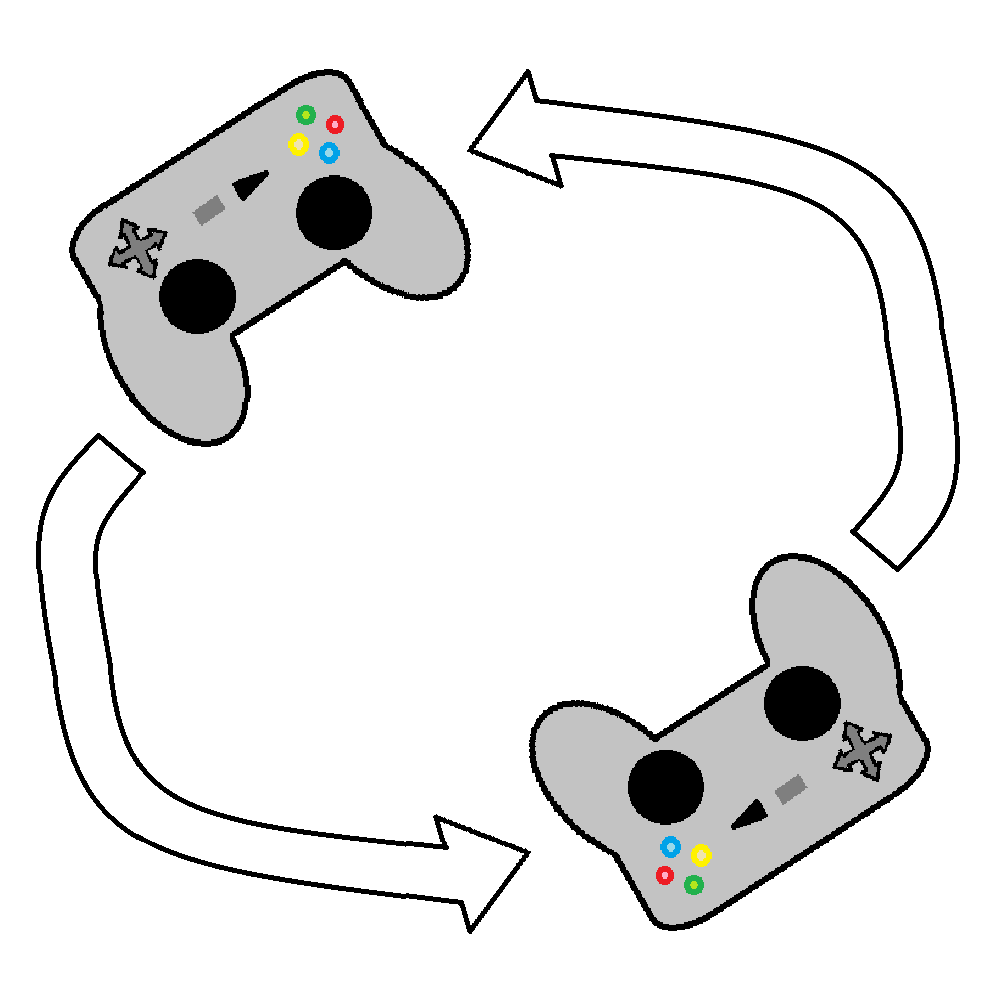
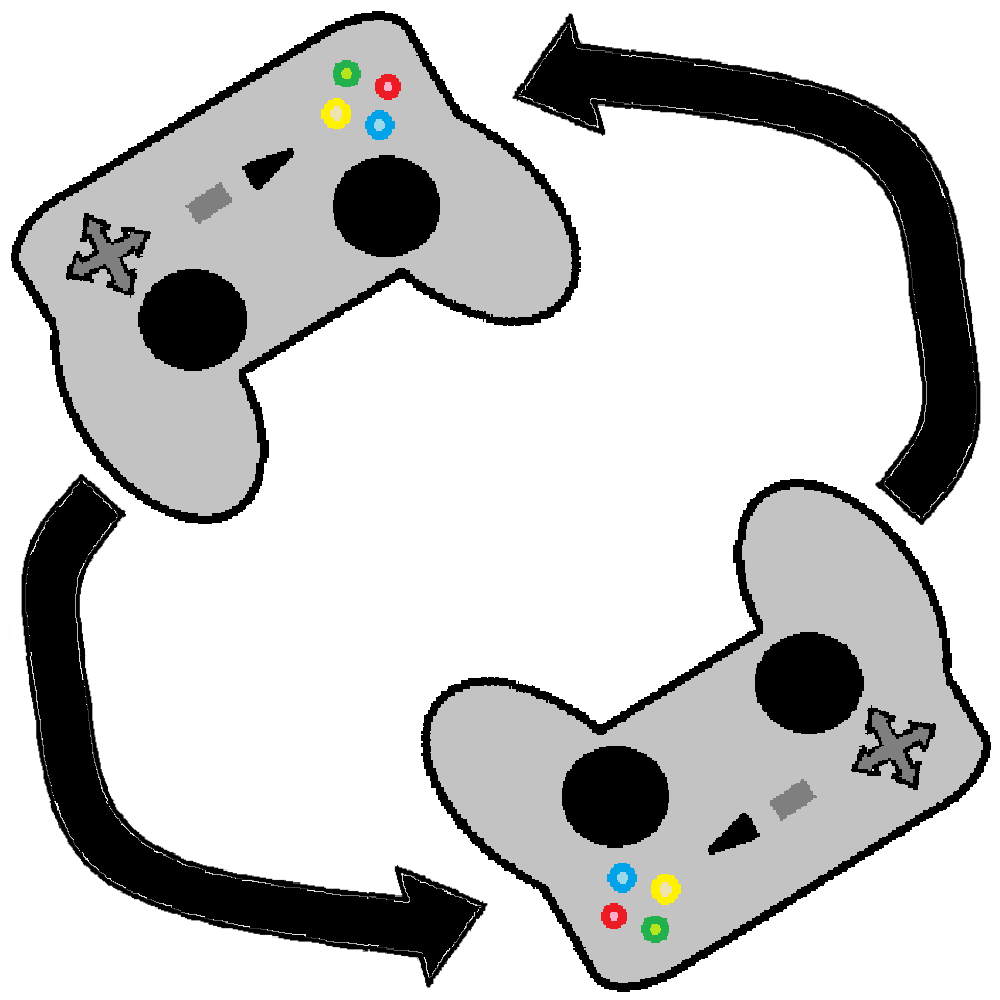
Refactor path handling and improve code readability in gui_app.py

diff --git a/gui_app.py b/gui_app.py
@@ -220,7 +220,9 @@ class RcloneSync:
                 str(local_path)
                 .replace("%USERPROFILE%", str(Path.home()))
                 .replace("%APPDATA%", str(Path.home() / "AppData" / "Roaming"))
-            ).expanduser().resolve()
+            )
+            .expanduser()
+            .resolve()
         )
         remote = f"{self.provider}:{cloud_folder.lstrip('/')}"
         if on_line:
@@ -250,7 +252,9 @@ class RcloneSync:
                 str(local_path)
                 .replace("%USERPROFILE%", str(Path.home()))
                 .replace("%APPDATA%", str(Path.home() / "AppData" / "Roaming"))
-            ).expanduser().resolve()
+            )
+            .expanduser()
+            .resolve()
         )
         remote = f"{self.provider}:{cloud_folder.lstrip('/')}"
         Path(local_path).mkdir(parents=True, exist_ok=True)
@@ -740,11 +744,15 @@ class LocalNetworkSync:
             if on_line:
                 on_line(msg)
 
-        lp = Path(
-            str(local_path)
-            .replace("%USERPROFILE%", str(Path.home()))
-            .replace("%APPDATA%", str(Path.home() / "AppData" / "Roaming"))
-        ).expanduser().resolve()
+        lp = (
+            Path(
+                str(local_path)
+                .replace("%USERPROFILE%", str(Path.home()))
+                .replace("%APPDATA%", str(Path.home() / "AppData" / "Roaming"))
+            )
+            .expanduser()
+            .resolve()
+        )
         _log(f"[push] local={lp}  remote={remote_path}")
         if not lp.exists():
             raise FileNotFoundError(
@@ -808,11 +816,15 @@ class LocalNetworkSync:
             if on_line:
                 on_line(msg)
 
-        lp = Path(
-            local_path
-            .replace("%USERPROFILE%", str(Path.home()))
-            .replace("%APPDATA%", str(Path.home() / "AppData" / "Roaming"))
-        ).expanduser().resolve()
+        lp = (
+            Path(
+                local_path.replace("%USERPROFILE%", str(Path.home())).replace(
+                    "%APPDATA%", str(Path.home() / "AppData" / "Roaming")
+                )
+            )
+            .expanduser()
+            .resolve()
+        )
         _log(f"[pull] remote={remote_path}  local={lp}")
         has_rsync = shutil.which("rsync") is not None
         if self.ssh_password or not has_rsync:
@@ -1096,9 +1108,16 @@ class SyncApp(QMainWindow):
                         current_mac = mac_part.replace("-", ":").lower()
                     elif "IPv4 Address" in ls:
                         # e.g. "IPv4 Address. . . . . . . . . . . : 192.168.1.5(Preferred)"
-                        ip_part = ls.split(":", 1)[-1].strip().replace("(Preferred)", "").strip()
+                        ip_part = (
+                            ls.split(":", 1)[-1]
+                            .strip()
+                            .replace("(Preferred)", "")
+                            .strip()
+                        )
                         if ip_part and ip_part not in local_ips:
-                            interfaces.append({"iface": "local", "ip": ip_part, "mac": current_mac})
+                            interfaces.append(
+                                {"iface": "local", "ip": ip_part, "mac": current_mac}
+                            )
                             local_ips.add(ip_part)
                             if current_mac:
                                 local_macs.add(current_mac)
@@ -1679,7 +1698,9 @@ class SyncApp(QMainWindow):
 
         content_layout.addSpacing(10)
         # add line spacer between
-        content_layout.addWidget(QFrame(frameShape=QFrame.Shape.HLine, styleSheet="color: #555;"), 1)
+        content_layout.addWidget(
+            QFrame(frameShape=QFrame.Shape.HLine, styleSheet="color: #555;"), 1
+        )
         content_layout.addSpacing(10)
 
         # ── Sync Button ───────────────────────────────────────────────────────
@@ -1736,7 +1757,9 @@ class SyncApp(QMainWindow):
             QSizePolicy(QSizePolicy.Policy.Expanding, QSizePolicy.Policy.Preferred)
         )
 
-        content_layout.addWidget(self.warning_label, alignment=Qt.AlignmentFlag.AlignCenter)
+        content_layout.addWidget(
+            self.warning_label, alignment=Qt.AlignmentFlag.AlignCenter
+        )
         self.warning_label.setVisible(False)  # only show when sync starts
 
         # ── Progress Bar ──────────────────────────────────────────────────────
@@ -1797,7 +1820,9 @@ class SyncApp(QMainWindow):
         # Inner scrollable widget so the panel never clips on small windows
         settings_scroll = QScrollArea()
         settings_scroll.setWidgetResizable(True)
-        settings_scroll.setHorizontalScrollBarPolicy(Qt.ScrollBarPolicy.ScrollBarAlwaysOff)
+        settings_scroll.setHorizontalScrollBarPolicy(
+            Qt.ScrollBarPolicy.ScrollBarAlwaysOff
+        )
         settings_scroll.setStyleSheet(
             "QScrollArea { background: #2a2a2a; border: none; }"
             "QWidget { background: transparent; }"
@@ -1845,11 +1870,13 @@ class SyncApp(QMainWindow):
 
         # ── Section: Raw JSON editor ──────────────────────────────────────────
         settings_vbox.addWidget(_section_header("🛠  Advanced: Raw Settings File"))
-        settings_vbox.addWidget(_hint(
-            "Power users: edit the raw JSON that is saved to disk.  "
-            "Be careful — invalid JSON will be rejected.  "
-            "Use 'Reload from disk' to discard any unsaved edits."
-        ))
+        settings_vbox.addWidget(
+            _hint(
+                "Power users: edit the raw JSON that is saved to disk.  "
+                "Be careful — invalid JSON will be rejected.  "
+                "Use 'Reload from disk' to discard any unsaved edits."
+            )
+        )
 
         self.settings_json_editor = QPlainTextEdit()
         self.settings_json_editor.setStyleSheet(
@@ -1893,9 +1920,7 @@ class SyncApp(QMainWindow):
         about_vbox.setSpacing(6)
 
         about_title = QLabel("Game Sync Tool")
-        about_title.setStyleSheet(
-            "font-size: 16px; font-weight: bold; color: white;"
-        )
+        about_title.setStyleSheet("font-size: 16px; font-weight: bold; color: white;")
         about_vbox.addWidget(about_title)
 
         about_desc = QLabel(
@@ -1948,9 +1973,7 @@ class SyncApp(QMainWindow):
         )
         donate_btn.setCursor(Qt.CursorShape.PointingHandCursor)
         donate_btn.clicked.connect(
-            lambda: webbrowser.open(
-                "https://www.paypal.com/ncp/payment/J4WYMPBFTLBMU"
-            )
+            lambda: webbrowser.open("https://www.paypal.com/ncp/payment/J4WYMPBFTLBMU")
         )
         about_links_row.addWidget(donate_btn)
         about_links_row.addStretch()
@@ -1972,8 +1995,6 @@ class SyncApp(QMainWindow):
 
         outer_layout.addWidget(splitter)
         self.setCentralWidget(outer_widget)
-
-
 
     # ── Cloud UI callbacks ────────────────────────────────────────────────────
 
@@ -2178,8 +2199,15 @@ class SyncApp(QMainWindow):
 
     def _start_direct_sync(self, operation: str):
         """Common launcher for push/pull between this machine and the destination."""
-        if getattr(self, "settings_confirm_sync_cb", None) and self.settings_confirm_sync_cb.isChecked():
-            op_label = "Push to destination" if operation == "push" else "Pull from destination"
+        if (
+            getattr(self, "settings_confirm_sync_cb", None)
+            and self.settings_confirm_sync_cb.isChecked()
+        ):
+            op_label = (
+                "Push to destination"
+                if operation == "push"
+                else "Pull from destination"
+            )
             reply = QMessageBox.question(
                 self,
                 "Confirm Sync",
@@ -2350,6 +2378,7 @@ class SyncApp(QMainWindow):
                 except Exception:
                     pass
                 import time as _time
+
                 _time.sleep(0.5)  # give the OS a moment to release the port
 
                 result = subprocess.run(
@@ -2372,7 +2401,9 @@ class SyncApp(QMainWindow):
                     )
                 else:
                     # Fallback: find any JSON object in the output
-                    m = _re.search(r'(\{[^{}]*"access_token"[^{}]*\})', output, _re.DOTALL)
+                    m = _re.search(
+                        r'(\{[^{}]*"access_token"[^{}]*\})', output, _re.DOTALL
+                    )
                     if m:
                         token_json = m.group(1).strip()
                     else:
@@ -2510,9 +2541,13 @@ class SyncApp(QMainWindow):
         return folder
 
     def push_to_cloud(self):
-        if getattr(self, "settings_confirm_sync_cb", None) and self.settings_confirm_sync_cb.isChecked():
+        if (
+            getattr(self, "settings_confirm_sync_cb", None)
+            and self.settings_confirm_sync_cb.isChecked()
+        ):
             reply = QMessageBox.question(
-                self, "Confirm Push",
+                self,
+                "Confirm Push",
                 "Are you sure you want to push saves to the cloud?\nThis will overwrite files in the cloud folder.",
                 QMessageBox.StandardButton.Yes | QMessageBox.StandardButton.No,
                 QMessageBox.StandardButton.No,
@@ -2532,9 +2567,13 @@ class SyncApp(QMainWindow):
         self._run_cloud_op("upload", cloud_syncs, local_path)
 
     def pull_from_cloud(self):
-        if getattr(self, "settings_confirm_sync_cb", None) and self.settings_confirm_sync_cb.isChecked():
+        if (
+            getattr(self, "settings_confirm_sync_cb", None)
+            and self.settings_confirm_sync_cb.isChecked()
+        ):
             reply = QMessageBox.question(
-                self, "Confirm Pull",
+                self,
+                "Confirm Pull",
                 "Are you sure you want to pull saves from the cloud?\nThis will overwrite local files.",
                 QMessageBox.StandardButton.Yes | QMessageBox.StandardButton.No,
                 QMessageBox.StandardButton.No,
